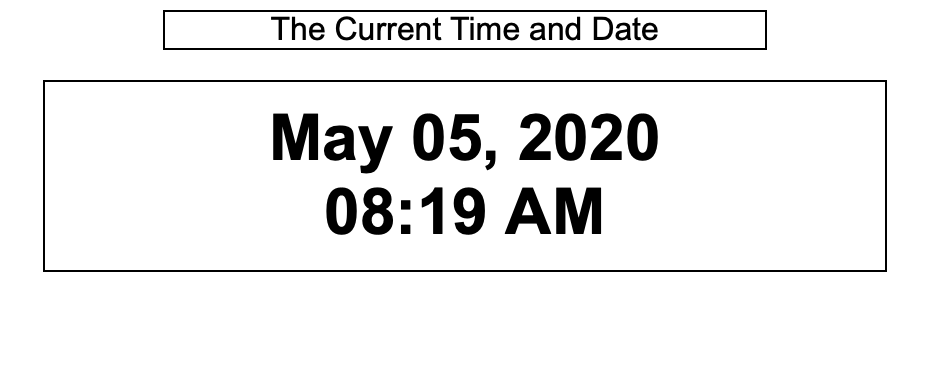
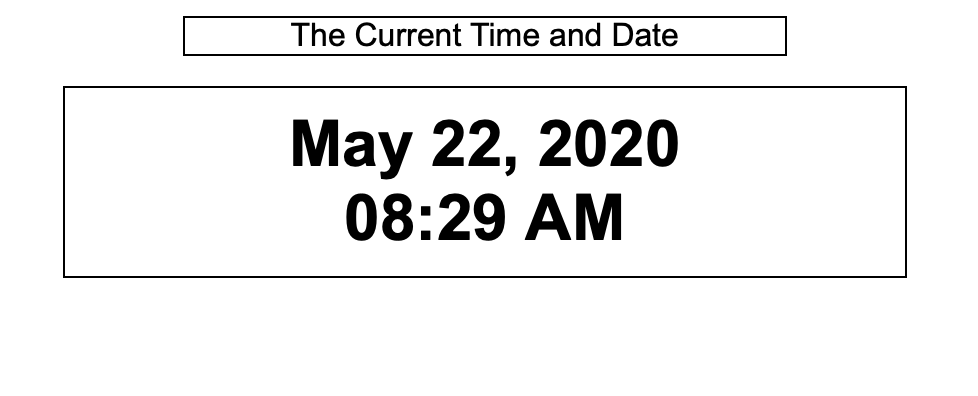
Correct format for day of month %d

Changed region(s): [[0.2806, 0.2926, 0.7172, 0.6436], [0.0312, 0.2048, 0.9667, 0.7314], [0.1871, 0.0293, 0.8419, 0.1463]]

diff --git a/python_stack/django/django_intro/project_time_display/time_display/views.py b/python_stack/django/django_intro/project_time_display/time_display/views.py
@@ -7,13 +7,13 @@ def index(request):
     from time import gmtime, strftime
 
     context = {
-        "time": strftime("%b %m, %Y  %I:%M %p", gmtime())
+        "time": strftime("%b %d, %Y  %I:%M %p", gmtime())
     }
 
     # Using datetime.now() is another way to retrieve the date and time
     from datetime import datetime
 
     context2 = {
-        "time": datetime.now().strftime("%b %m, %Y  %I:%M %p")
+        "time": datetime.now().strftime("%b %d, %Y  %I:%M %p")
     }
     return render(request, 'index.html', context2)
